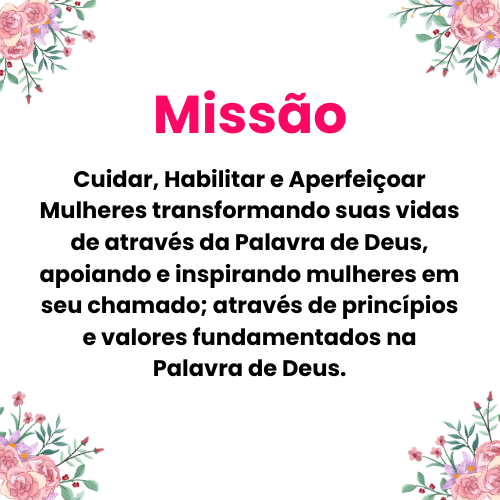
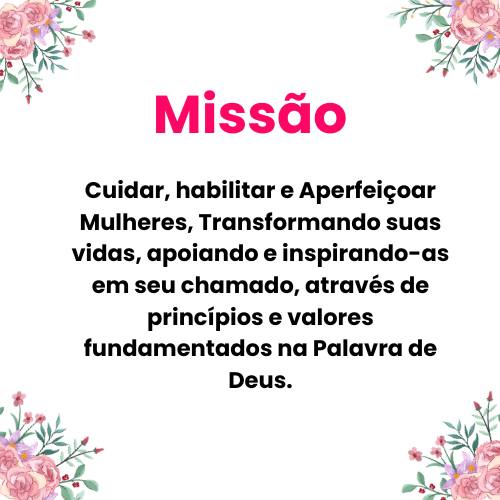
tempoparamulheres

Changed region(s): [[0.06, 0.33, 0.93, 0.78]]

diff --git a/index.html b/index.html
@@ -25,34 +25,30 @@
 
     
     <div class="logotpm">
-        <img src="Imagens/LogoTPM.jpg" alt="Imagem Responsiva" class="center-img">
+        <img src="Imagens/TPM.png" alt="Imagem Responsiva" class="center-img">
       </div> 
  
 
       <div class="quemsomos">
-        <h1>TPM com Você</h1>
-        <h3>A alegria de sermos filhas de Deus nos impulsiona e nos tira do lugar, muda-nos de rumo, incita-nos a ser melhores. 
-            Existe uma ordem que garante a nós mulheres acesso a uma benção que nos foi previamente entregue como filha de Deus.
-            Para isso precisamos conhecer nossa posição e fazer a uma escolha consciente e voluntária de ocupa-lá.
-            Quando não sabemos quem somos queremos ser qualquer coisa. A identidade revela quem somos, nos leva a conhecer nosso destino, nos faz experimentar o descanso.
-            Quando temos uma identidade ressignificada em Cristo, ficamos livres da necessidade de medir nosso valor nos comparando com os outros.
-            Quantas são as mulheres que estão vivendo as margens por não conhecerem quem de fato são no Senhor.
-            Não é uma questão apenas de saber, mas de reconhecer em si mesmas sua PATERNIDADE! Somos FILHAS. antes de qualquer coisa, você precisa entender que é FILHA!
+        <h1 class="h1">TPM com Você</h1>
+        <h3>A alegria de sermos filhas de Deus nos impulsiona e nos tira do lugar, muda-nos de rumo, incita-nos a ser melhores. Existe uma ordem que garante a nós mulheres acesso a uma benção que nos foi previamente entregue como filha de Deus. Para isso precisamos conhecer nossa posição e fazer uma escolha consciente e voluntária de ocupá-la. Quando não sabemos quem somos, somos levadas a sermos qualquer coisa. A identidade revela quem somos, nos leva a conhecer nosso destino, nos faz experimentar e viver o nosso propósito.. Quando temos uma identidade ressignificada em Cristo, ficamos livres da necessidade de medir nosso valor nos comparando com os outros. Quantas são as mulheres que estão vivendo as margens por não se conhecerem quem de fato são no Senhor. Não é uma questão apenas de saber, mas de reconhecer em si mesmas sua PATERNIDADE! Somos FILHAS.
+            Antes de qualquer coisa, você precisa entender que é FILHA, e acessar essa promessa.
             </h3>
       </div>
       <br>
 
-      <div class="photo-sequence">
-        <img src="Imagens/Visão.png" alt="Imagem 1">
-        <img src="Imagens/Missão.png" alt="Imagem 2">
-        <img src="Imagens/Valores.png" alt="Imagem 3">
+      <div class="sequencia">
+        <img src="Imagens/Visão.png" alt="Imagem 1" class="foto" style="margin-bottom: 40px;">
+        <img src="Imagens/Missão.png" alt="Imagem 2" class="foto" style="margin-bottom: 40px;">
+        <img src="Imagens/Valores.png" alt="Imagem 3" class="foto" style="margin-bottom: 40px;">
       </div>
 
       <br>
       <br>
 
       <div class="inscrição">
-      <h1>Faça sua Inscrição no Tempo Para Mulheres</h1>
+      <h1 class="h1">DEUS NO SECRETO 15/06 - POR QUE É TÃO DIFICIL MUDAR</h1>
+      <h2 class="h2">INSCREVA-SE</h2>
     </div>
 
     <div class="logo">
@@ -60,15 +56,15 @@
       </div> 
 
       <div class="iframe-container">
-        <iframe src="https://docs.google.com/forms/d/e/1FAIpQLScxcfhbcw41N69be86ZzT7IIy5fiTmD02DyW0NvjPm-80ACtQ/viewform?embedded=true" width="720" height="1280" frameborder="0" marginheight="0" marginwidth="0">Loading…</iframe>
+        <iframe src="https://docs.google.com/forms/d/e/1FAIpQLScxcfhbcw41N69be86ZzT7IIy5fiTmD02DyW0NvjPm-80ACtQ/viewform?embedded=true" width="640" height="1446" frameborder="0" marginheight="0" marginwidth="0">Loading…</iframe>
         </div>
 
-        <footer class="footer">
-            <div class="footer-content">
-              <p>Contato: tpmcomvoce2024@gmail.com</p>
-              <p>Telefone: (17) 997226670</p>
-            </div>
-          </footer>
+        <footer>
+            <!-- Ícones direcionáveis -->
+            <a href="https://api.whatsapp.com/send?phone=17997226670" target="_blank"><img src="Imagens/whatsapp.png" alt="" width="30px"></a>
+            <a href="https://www.instagram.com/tpmcomvoce?utm_source=ig_web_button_share_sheet&igsh=ZDNlZDc0MzIxNw==" target="_blank"><img src="Imagens/instagram.png" alt="" width="33px"></a>
+            <a href="https://linktr.ee/isamariana" target="_blank"><img src="Imagens/linktree.png" width="70px"></a>
+        </footer>
 
 <script src="script.js"></script>
 

diff --git a/style.css b/style.css
@@ -3,8 +3,12 @@ body {
     font-family: Arial, sans-serif;
   }
 
-  h1{
+  .h1{
     color: #FC0763;
+    font-family: poppins;
+  }
+
+  .h2{
     font-family: poppins;
   }
   
@@ -56,7 +60,7 @@ body {
   }
   
   .center-img {
-    max-width: 70%;
+    max-width: 100%;
     height: auto;
   }
 
@@ -75,17 +79,28 @@ body {
     margin-top: 20px; /* Espaçamento superior para o texto */
     line-height: 1.5; /* Espaçamento entre linhas */
   }
-  
-  .photo-sequence {
+
+  .sequencia {
     display: flex;
-    justify-content: center;
-  }
-  
-  .photo-sequence img {
-    max-width: 25%; /* Define o tamanho das imagens */
+    flex-direction: column; /* Para que as imagens fiquem uma abaixo da outra */
+    justify-content: center; /* Centraliza verticalmente */
+    align-items: center; /* Centraliza horizontalmente */
+    height: 100vh; /* Define a altura do container como a altura total da tela */
+}
+
+/* Estilos para imagens */
+.sequencia {
+    max-width: 100%;
     height: auto;
-    margin: 10px; /* Adiciona espaçamento entre as imagens */
-  }
+    margin-bottom: -20px; /* Espaçamento entre as imagens */
+}
+
+/* Estilos para tela pequena */
+@media only screen and (max-width: 600px) {
+    .sequencia {
+        height: auto; /* Altura automática para telas menores */
+    }
+}
 
   .mulheres {
     display: flex;
@@ -121,24 +136,25 @@ body {
     text-align: center;
   }
 
-  .footer {
-    background-color: #FC0763;
-    color: white;
-    padding: 20px;
-    display: flex;
-    justify-content: center;
-  }
-  
-  .footer-content {
-    display: flex;
-    flex-direction: column;
-    text-align: center;
-  }
-  
-  .footer-content p {
-    margin: 5px 0;
-  }
+  footer {
+    background-color: #FC0763; /* Cor de fundo do footer */
+    color: #fff; /* Cor do texto */
+    text-align: center; /* Alinhamento do texto */
+    padding: 20px 0; /* Espaçamento interno superior e inferior */
+}
 
+/* Estilos para os ícones */
+footer a {
+    margin: 0 20px; /* Espaçamento entre os ícones */
+    display: inline-block; /* Garante que os ícones ocupem o espaço necessário */
+}
+
+/* Estilos para o footer responsivo */
+@media only screen and (max-width: 600px) {
+    footer a {
+        margin: 10px 0; /* Espaçamento entre os ícones na vertical */
+    }
+}
   .image-container {
     display: flex;
     justify-content: center; /* Centraliza horizontalmente */
